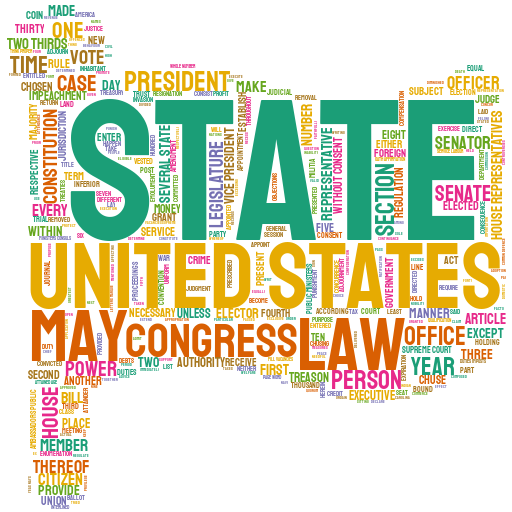
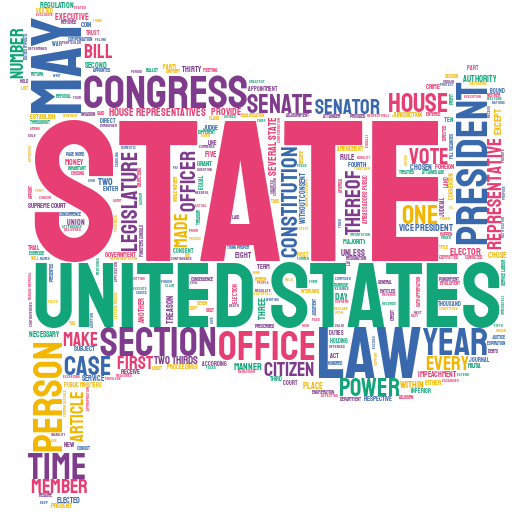
Change default output

diff --git a/hello-world/README.md b/hello-world/README.md
@@ -1,6 +1,6 @@
 # hello-world
 
-An extremely basic example to demonstrate stylecloud's functionality. For apples-to-apples comparison, it creates a word cloud from the US Constituion as the [world_cloud hello world example](https://github.com/amueller/word_cloud/blob/master/examples/simple.py) does.
+An extremely basic example to demonstrate stylecloud's functionality. For apples-to-apples comparison, it creates a word cloud from the US Constitution as the [world_cloud hello world example](https://github.com/amueller/word_cloud/blob/master/examples/simple.py) does.
 
 ## Base stylecloud: text input only
 
@@ -51,7 +51,7 @@ stylecloud --file_path constitution.txt --icon_name 'fas fa-dog' --palette color
 
 Specifying a gradient direction (`horizontal` or `vertical`) will cause the words to behave as if affected by a color gradient.
 
-It is strongly recommended you use the nondefault palette if adding a gradient.
+It is strongly recommended you use a nondefault palette (i.e. a non-qualitative palette) if adding a gradient.
 
 Python:
 
